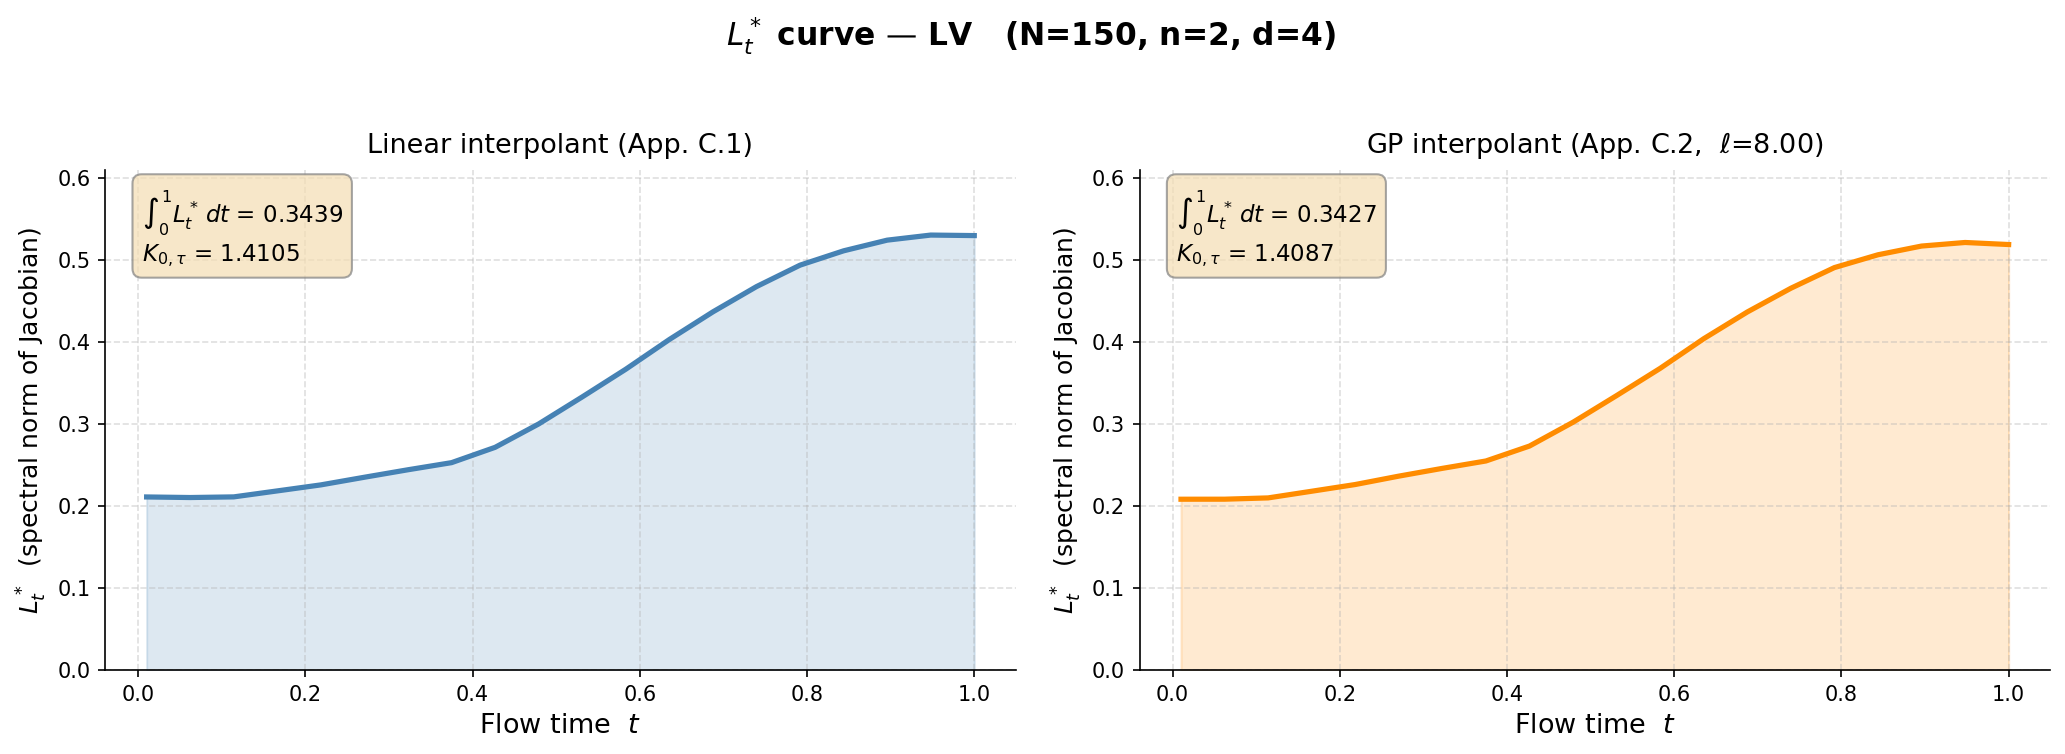
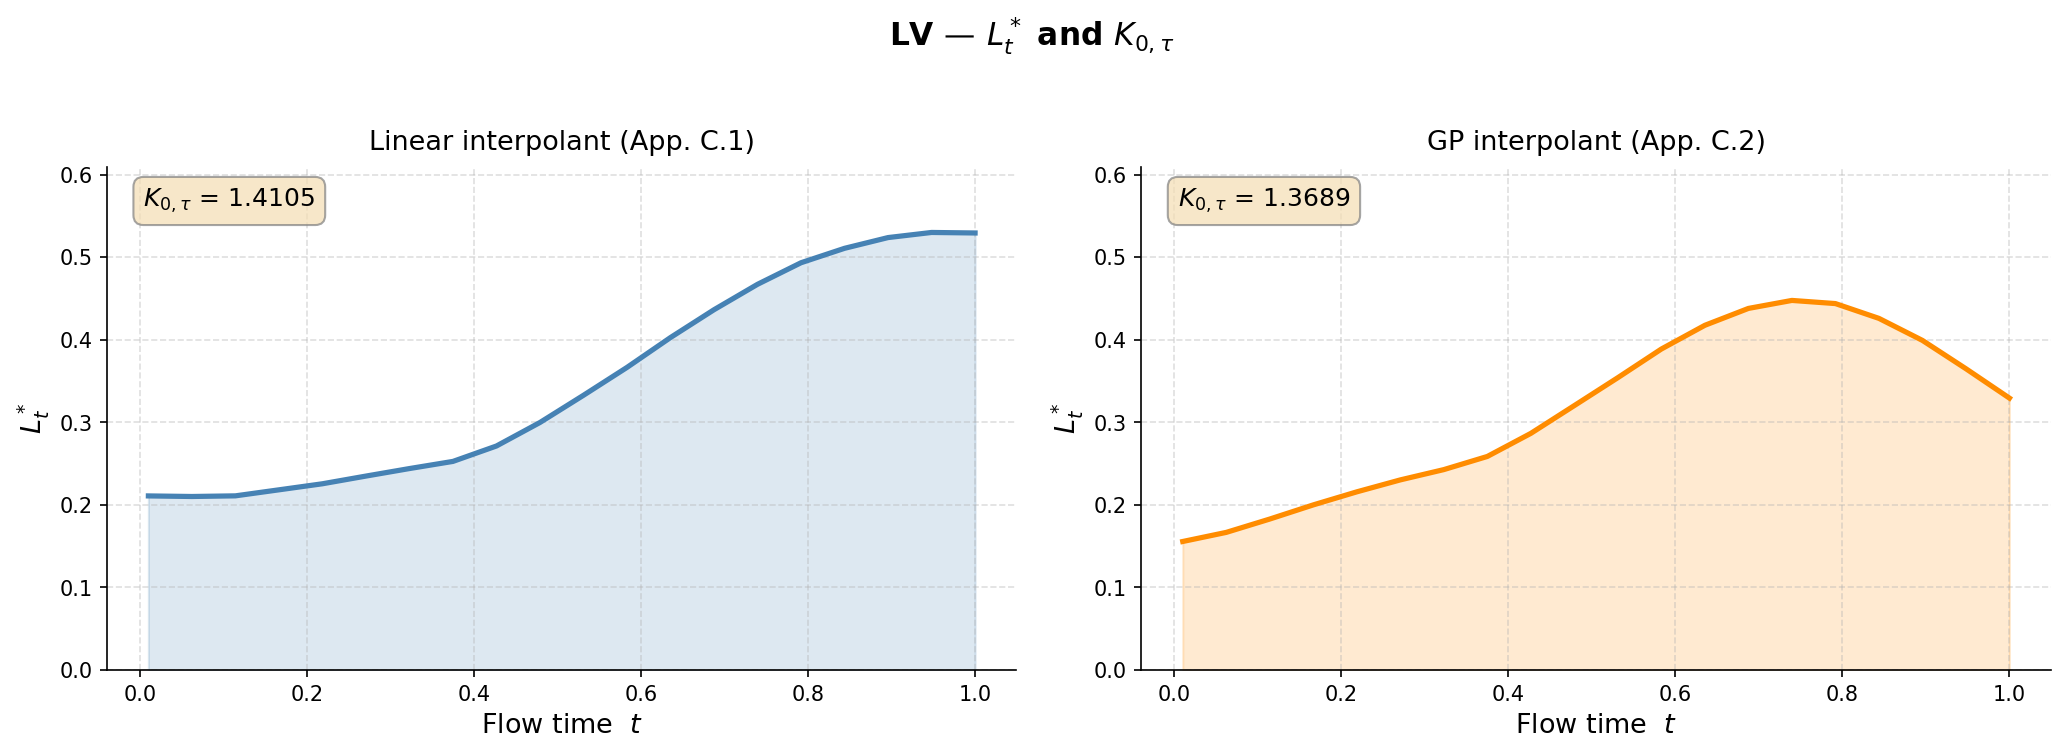
results: clean L*_t plots for LV and MPF (winning GP datasets)
Labels: y-axis L*_t, annotation K only (no integral, no l setting).
MPF best l=20 K_gp=1.4905 vs K_lin=1.5018 (+0.8%)
LV  best l=1.5 K_gp=1.3689 vs K_lin=1.4105 (+2.9%)

diff --git a/meanflow/compute_lipschitz_bound.py b/meanflow/compute_lipschitz_bound.py
@@ -647,30 +647,27 @@ if __name__ == "__main__":
         out_png = os.path.join(cli.out_dir, f"L_curve_{dset}.png")
         fig, axes = plt.subplots(1, 2, figsize=(14, 5))
         fig.suptitle(
-            f"$L^*_t$ curve — {dset.upper()}   "
-            f"(N={z0_all.shape[0]}, n={z0_all.shape[1]}, d={d})",
+            f"{dset.upper()} — $L^*_t$ and $K_{{0,\\tau}}$",
             fontsize=15, fontweight="bold", y=1.01,
         )
         y_max = max(float(L_lin.max()), float(best_L_gp.max())) * 1.15
-        for ax, L_c, integ, K, label, color in zip(
+        for ax, L_c, K, label, color in zip(
             axes,
             [L_lin, best_L_gp],
-            [integ_lin, best_integ_gp],
             [K_lin, best_K_gp],
             ["Linear interpolant (App. C.1)",
-             f"GP interpolant (App. C.2,  best $\\ell$={best_l:.2f})"],
+             "GP interpolant (App. C.2)"],
             ["steelblue", "darkorange"],
         ):
             ax.plot(t_grid.numpy(), L_c.numpy(), color=color, linewidth=2.5)
             ax.fill_between(t_grid.numpy(), 0, L_c.numpy(), alpha=0.18, color=color)
             ax.set_xlabel("Flow time  $t$", fontsize=13)
-            ax.set_ylabel("$L^*_t$  (spectral norm of Jacobian)", fontsize=12)
+            ax.set_ylabel("$L^*_t$", fontsize=13)
             ax.set_title(label, fontsize=13, pad=8)
             ax.set_ylim(0, y_max)
             ax.text(0.04, 0.96,
-                    f"$\\int_0^1 L^*_t\\,dt$ = {float(integ):.4f}\n"
                     f"$K_{{0,\\tau}}$ = {float(K):.4f}",
-                    transform=ax.transAxes, fontsize=11, verticalalignment="top",
+                    transform=ax.transAxes, fontsize=12, verticalalignment="top",
                     bbox=dict(boxstyle="round,pad=0.4", facecolor="wheat",
                               edgecolor="gray", alpha=0.7))
             ax.grid(True, linestyle="--", alpha=0.4)
